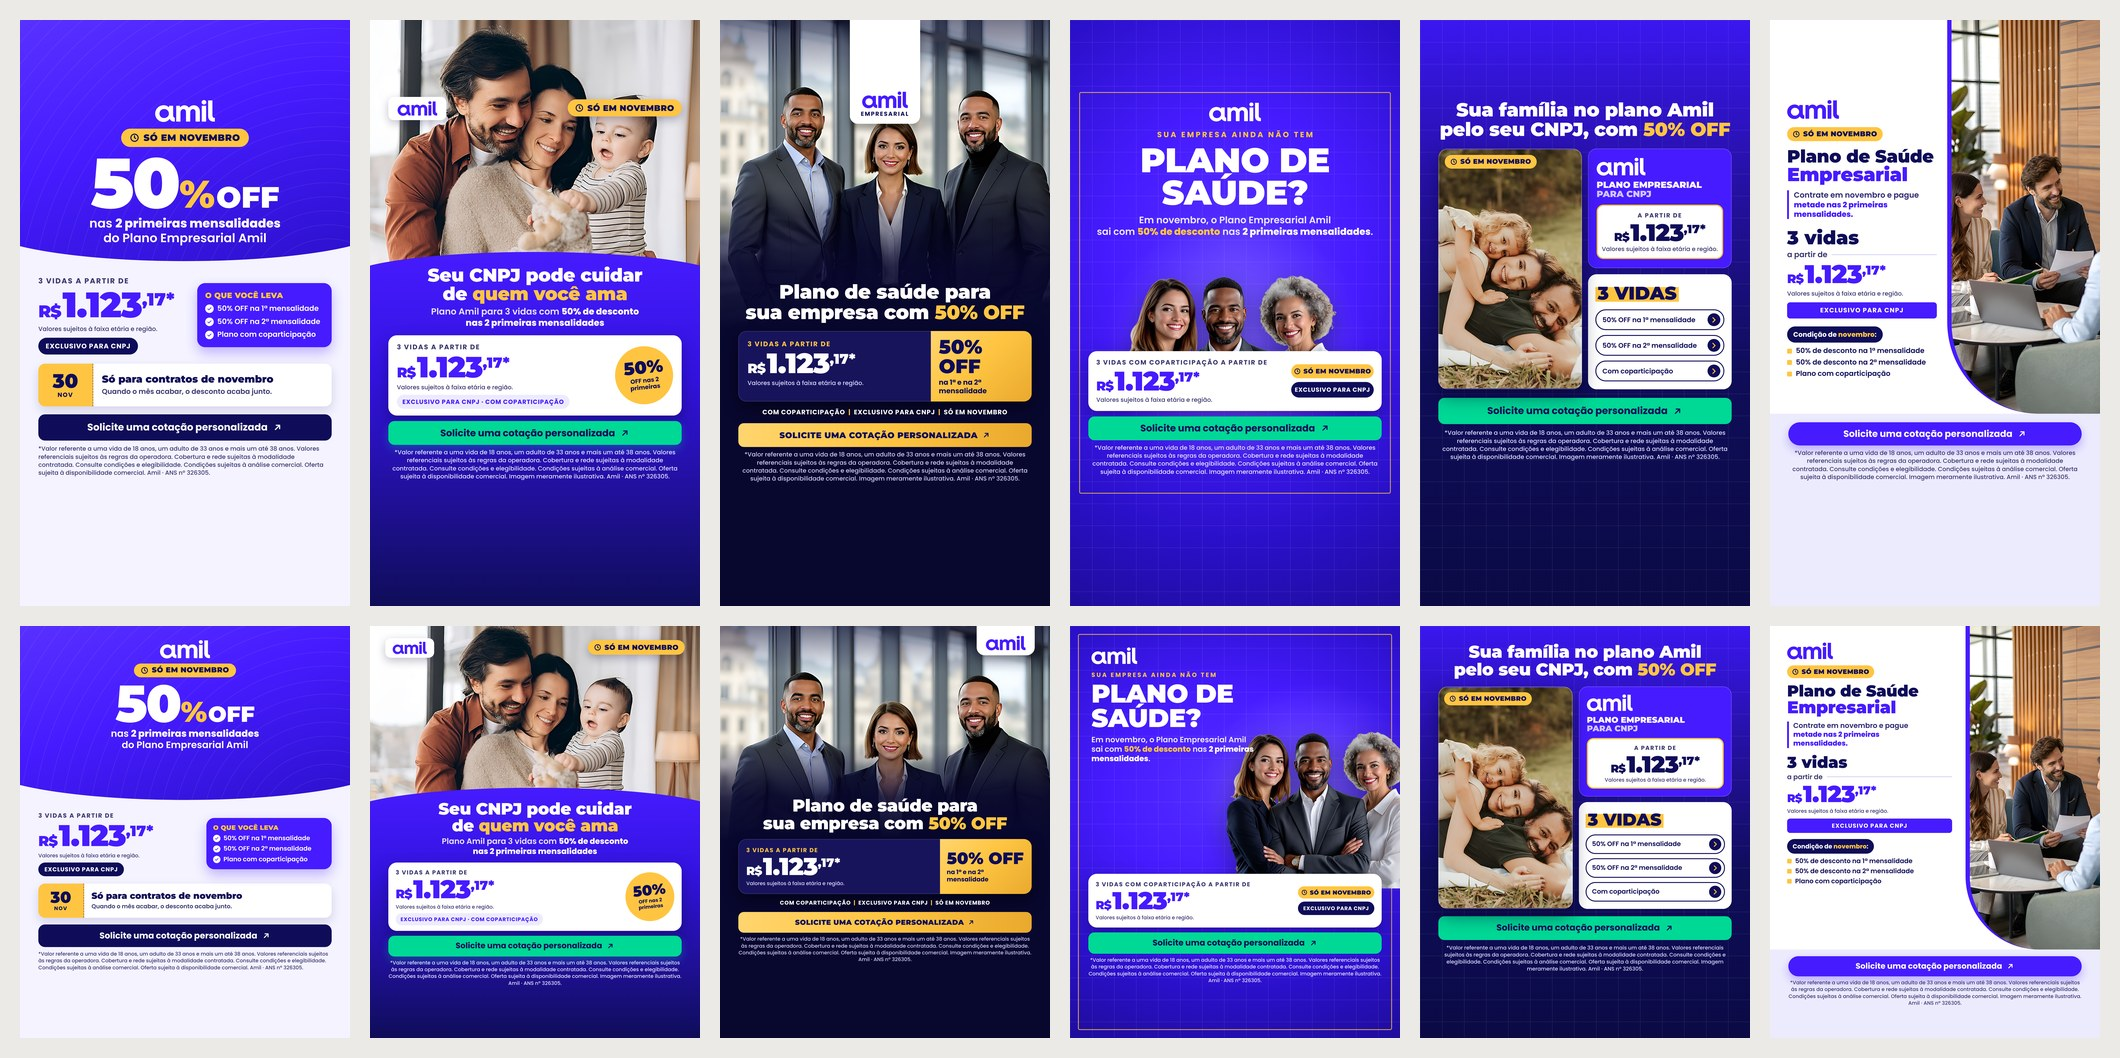
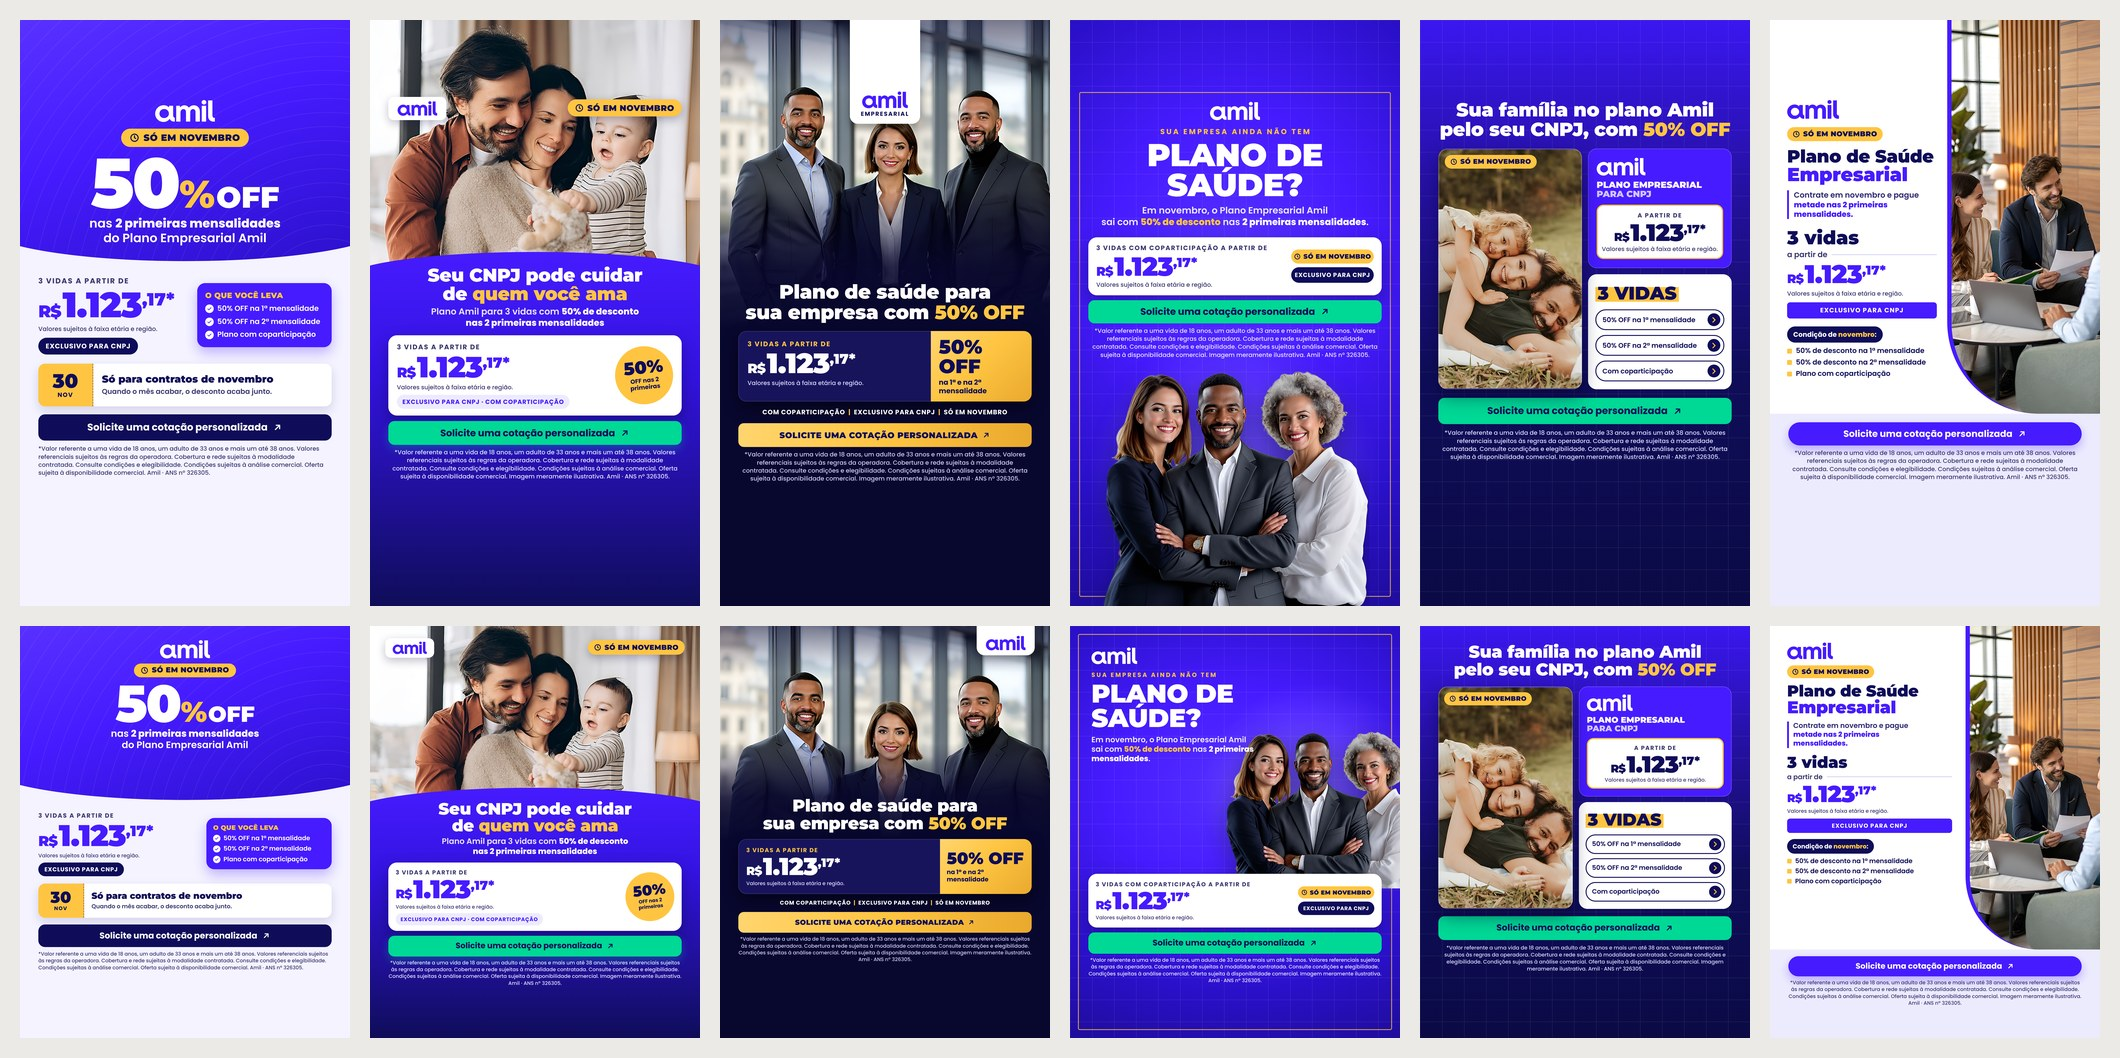
Amil só em novembro: N4 Story com o trio de corpo até a cintura
O cartão de preço cobria as pessoas do pescoço para baixo. No Story, pergunta, preço,
botão e texto legal ficam em cima e o trio em pé na base da peça.

Claude-Session: https://claude.ai/code/session_01GQmGjzcDcCg5ZjPiHt6SBp

Changed region(s): [[0.4981, 0.0936, 0.6538, 0.5926]]

diff --git a/criativos/amil-50-so-em-novembro/pecas/n4-pergunta-empresa.html b/criativos/amil-50-so-em-novembro/pecas/n4-pergunta-empresa.html
@@ -30,24 +30,25 @@
   .cta { width: 100%; background: var(--verde); color: var(--noite); border-radius: 20px; }
   .legal { color: #e6e2ff; text-align: center; }
 
-  /* STORY 1080x1920 — texto entre y=250 e y=1530 */
-  .story .moldura { inset: 236px 30px 368px; }
-  .story .topo { top: 270px; }
-  .story .logo { width: 170px; }
-  .story .eyebrow { font-size: 25px; margin-top: 24px; }
-  .story .pergunta { font-size: 112px; margin-top: 12px; }
-  .story .sub { font-size: 31px; margin-top: 16px; }
-  .story .brilho { width: 900px; height: 900px; left: 90px; top: 620px; }
-  .story .trio { width: 900px; left: 36px; top: 640px; height: 520px; }
-  .story .base { top: 1085px; }
-  .story .cartao { padding: 22px 26px; grid-template-columns: 1fr 270px; column-gap: 16px; }
+  /* STORY 1080x1920 — texto entre y=250 e y=1530. Texto e preço em cima; o trio fica em pé na base da peça,
+     de corpo inteiro até a cintura (a parte de baixo pode ficar sob a interface do Story: é só imagem). */
+  .story .moldura { inset: 236px 30px 30px; }
+  .story .topo { top: 268px; }
+  .story .logo { width: 164px; }
+  .story .eyebrow { font-size: 24px; margin-top: 20px; }
+  .story .pergunta { font-size: 104px; margin-top: 10px; }
+  .story .sub { font-size: 30px; margin-top: 14px; }
+  .story .brilho { width: 1000px; height: 1000px; left: 40px; top: 1010px; }
+  .story .trio { width: 1010px; left: -30px; top: 930px; height: 990px; }
+  .story .base { top: 712px; }
+  .story .cartao { padding: 20px 26px; grid-template-columns: 1fr 270px; column-gap: 16px; }
   .story .apartir { font-size: 21px; }
-  .story .preco { font-size: 88px; margin-top: 4px; }
+  .story .preco { font-size: 86px; margin-top: 4px; }
   .story .nota-preco { font-size: 19.5px; margin-top: 4px; }
   .story .lado { gap: 12px; }
   .story .kicker { font-size: 21px; padding: 12px 14px; }
   .story .lado .cnpj { font-size: 19.5px; padding: 11px 10px; }
-  .story .cta { height: 78px; font-size: 31px; margin-top: 18px; }
+  .story .cta { height: 76px; font-size: 31px; margin-top: 16px; }
   .story .legal { font-size: 19.5px; margin-top: 12px; }
 
   /* FEED 4:5 1080x1350 */

diff --git a/criativos/amil-50-so-em-novembro/README.md b/criativos/amil-50-so-em-novembro/README.md
@@ -20,7 +20,7 @@ Cada peça sai em **Story 9:16** e **Feed 4:5**, exportadas em 2x (2160×3840 e 
 | `n1-so-em-novembro` | "50% OFF nas 2 primeiras mensalidades" + ingresso "30 NOV — Só para contratos de novembro. Quando o mês acabar, o desconto acaba junto." | Arco da marca, preço gigante, caixa de benefícios (14) | — (tipográfica) |
 | `n2-familia` | "Seu CNPJ pode cuidar de quem você ama" | Foto no topo + painel curvo + cartão de preço com selo (01, 15) | `familia/04` casal com bebê |
 | `n3-empresa-premium` | "Plano de saúde para sua empresa com 50% OFF" | Linha premium escura, aba com logo, caixa âmbar, itens com barras (16) | `empresarial/10` trio |
-| `n4-pergunta-empresa` | "Sua empresa ainda não tem PLANO DE SAÚDE?" | Pergunta gigante, grade e moldura, pessoas recortadas (05) | `empresarial/08` trio (recortado) |
+| `n4-pergunta-empresa` | "Sua empresa ainda não tem PLANO DE SAÚDE?" | Pergunta gigante, grade e moldura, pessoas recortadas (05); no Story o preço fica em cima e o trio em pé na base, até a cintura | `empresarial/08` trio (recortado) |
 | `n5-cards-familia` | "Sua família no plano Amil pelo seu CNPJ, com 50% OFF" | Cards modulares, "3 VIDAS" em marca-texto, pílulas com seta (02) | `familia/05` pais e filha |
 | `n6-painel-empresa` | "Contrate em novembro e pague metade nas 2 primeiras mensalidades" | Painel lateral claro, "3 vidas / a partir de ——", faixa CNPJ, lista de condições, foto com borda curva (11, 12) | `empresarial/01` reunião |
 
